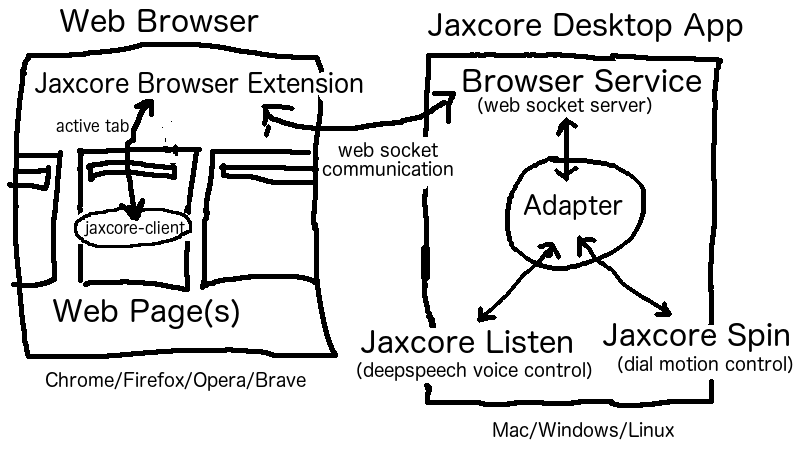
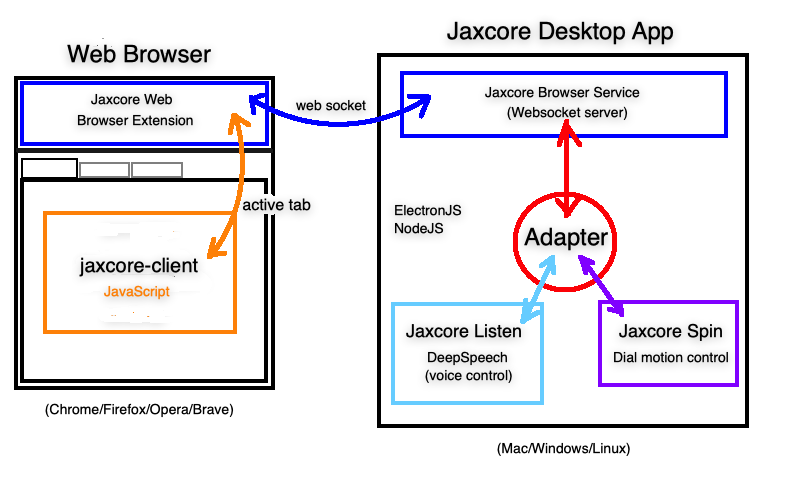
update README

Changed region(s): [[0.0, 0.0, 1.0, 0.9956]]

diff --git a/README.md b/README.md
@@ -5,46 +5,59 @@ Jaxcore Listen
 
 A client-side JavaScript speech recognition and voice command system for the home and for the Web, based upon [DeepSpeech](https://github.com/mozilla/DeepSpeech).
 
-Jaxcore Listen connects the DeepSpeech speech-to-text engine to Jaxcore, an open source JavaScript remote control system, which makes it easy for web developers to add voice and motion controls to web pages (like Star Trek or Jarvis)  using a simple JavaScript API that can be embedded in web pages (100% client-side) or run headless in NodeJS.
+Jaxcore Listen connects the DeepSpeech speech-to-text engine to Jaxcore (an open source JavaScript remote control system) which makes it easy for web developers to add voice and motion controls to web pages (like Star Trek or Jarvis)  using a simple JavaScript API that can be embedded in web pages using 100% client-side web technologies with no third-party cloud services required.
 
-This Git repository contains the [client-side web examples](https://github.com/jaxcore/jaxcore-listen/tree/master/examples) and the NodeJS [library](https://github.com/jaxcore/jaxcore-listen/tree/master/lib).  The web client connector library (what you add to web pages) is included in [jaxcore-client](https://github.com/jaxcore/jaxcore-client) which includes other capabilities you might be interested in, such as [Jaxcore Spin](https://github.com/jaxcore/jaxcore-spin) motion control, a [Text-to-Speech](https://github.com/jaxcore/jaxcore-speak) system, [BumbleBee](https://github.com/jaxcore/bumblebee-hotword) a wake-word (like Alexa), and Sound/Microphone visualizations.
+Although the examples provided are written with ReactJS, both Jaxcore and the Jaxcore Listen web client are framework agnostic, written in pure JavaScript, but must packaged using NPM/CommonJS.  Static builds may be provided at a later date.
 
-### Prerequisites
+The web connectivity in Jaxcore Listen requires that [jaxcore-client](https://github.com/jaxcore/jaxcore-client) be embedded in a web page, a browser extension and desktop app/service must also be installed to provide the speech and motion support.  Jaxcore includes other capabilities you might also be interested in, such as [Jaxcore Spin](https://github.com/jaxcore/jaxcore-spin) motion control support, a [Text-to-Speech](https://github.com/jaxcore/jaxcore-speak) system, [BumbleBee](https://github.com/jaxcore/bumblebee-hotword) a wake-word (like Alexa), and Sound/Microphone visualizations.  Jaxcore plugins are being written to control many types of devices (wireless speakers, home theater stereos, and media players like Plex/Kodi.
 
-In order to test the live web demos, you must first install both:
-
-- [Jaxcore Desktop application](https://github.com/jaxcore/jaxcore-electron)
-
-- [Jaxcore Web Browser extension](https://github.com/jaxcore/browser-plugin)
-
-**April-10-2019:** These projects are not yet released because the desktop app depends on DeepSpeech v0.5 which is not out yet.  In the meantime, the Listen NodeJS library can be used right now, and the web browser extension will be released hopefully later this week.  The headless version of the core piece of Jaxcore that is required for Listen support will be released at the same time.
-
-NOTE: The DeepSpeech English language model in the desktop app is a very large download (1.8GB), but only needs to be installed once for use across all websites with Jaxcore support.  This all runs locally on a computer, no cloud services required, no signups, no API keys, and most importantly no eavesdropping.
-
-
-### Live Demos
-
-- Functionality Demo:
-[https://jaxcore.github.io/jaxcore-listen/](https://jaxcore.github.io/jaxcore-listen/examples/demo)
-
-- Vocabulary/Substitution Testing Tool:
-[https://jaxcore.github.io/jaxcore-listen/examples/vocab-tester](https://jaxcore.github.io/jaxcore-listen/examples/vocab-tester)
-
-- Voice Chess game: [https://chess.jaxcore.com](https://chess.jaxcore.com)
-
-### Video Demos
-
-- Voice Chess gameplay: [https://www.youtube.com/watch?v=faOfKd1eAQA](https://www.youtube.com/watch?v=faOfKd1eAQA)
+See [https://jaxcore.com](https://jaxcore.com) for more details.
 
 
 ## How It Works
 
 ![diagram](https://raw.githubusercontent.com/jaxcore/jaxcore-listen/master/diagram.png)
 
-This diagram shows how the Jaxcore desktop app and browser extension are used to connect DeepSpeech and the Jaxcore Spin controllers to the web.  Jaxcore establishes a multi-node birectional communication channel from a web page to DeepSpeech and/or one or more Spin devices.  The browser extension will automatically switch to the active browser tab so only one tab can be controlled at a time.
+This diagram shows how the Jaxcore desktop app and browser extension are used to connect DeepSpeech and Spin controllers to the web.  Jaxcore establishes a multi-node birectional communication channel from a web page to DeepSpeech and/or one or more Spin devices.  The browser extension will automatically switch to the active browser tab so only one tab can be controlled at a time.
 
 
-## Web Client
+### Prerequisites
+
+In order to run the web demos with full microphone and speech recognition enabled, you must first install both the desktop app and browser extension:
+
+- [Jaxcore Web Browser extension](https://github.com/jaxcore/jaxcore-browser-extension)
+
+The browser extension establishes a communication channel between web pages and the Jaxcore Desktop app which runs DeepSpeech and the Jaxcore Spin bluetooth library, and Simulator.
+
+- [Jaxcore Desktop application](https://github.com/jaxcore/jaxcore-desktop-app) (not yet published)
+
+The DeepSpeech English language model in the desktop app is a very large download (1.8GB), but only needs to be installed once for use across all websites with Jaxcore support.  This all runs locally on a computer, no cloud services required, no signups, no API keys, and most importantly no eavesdropping.
+
+**April-11-2019:** The desktop app is not yet published because it depends on an upcoming version of DeepSpeech (v0.5).  In the meantime, the browser service can be run headless, by following the instructions at:
+
+- [Jaxcore Browser Plugin](https://github.com/jaxcore/browser-plugin)
+
+Windows/Linux:
+
+- [sox](http://sox.sourceforge.net/) (microphone recording)
+
+On computers with Windows and Linux, the `sox` command line audio program may have to be installed on the computer to provide microphone recording.  Make sure it is globally available from the command line.
+
+## Live Demos
+
+- [Basic Functionality Demo](https://jaxcore.github.io/jaxcore-listen/examples/web-demo/) - simple example of microphone speech being interpreted as words, letters, numbers, and dates
+
+- [Vocabulary/Substitution Testing Tool](https://jaxcore.github.io/jaxcore-listen/examples/web-vocab-tester/) - a testing tool used to build a vocabulary list with word substitutions (simple natural language processing)
+
+- [Voice Chess game](https://chess.jaxcore.com) - a full blown Jaxcore game with speech and spin support, designed as a replica of the HAL 9000 chess game in 2001 A Space Odyssey
+
+### Video Demos
+
+- Voice Chess gameplay: [https://www.youtube.com/watch?v=faOfKd1eAQA](https://www.youtube.com/watch?v=faOfKd1eAQA)
+
+
+
+## Web Client Usage
 
 #### Web Client Installation
 
@@ -82,30 +95,79 @@ Jaxcore.connect(function() {
 });
 ```
 
-For further reading, clone this repo and build try the web demos locally:
+
+For further reading, clone this repo and try the basic [web demo](https://jaxcore.github.io/jaxcore-listen/examples/web-demo/) locally:
 
 ```
 git clone https://github.com/jaxcore/jaxcore-listen.git
 cd jaxcore-listen/
 npm install
-cd examples/demo
+cd examples/web-demo
 npm install
 npm start
 ```
+
+
+## Listen Web API 
+
+**Momentary Recognition**
+
+Momentary recognition is useful to implement short and quick voice commands with no need for voice activity detection.  Start() will begin streaming microphone audio data into a buffer.  Stop() will stop the buffer and begin recognition processing of the audio stream.  For short phrases and commands this can be quite fast depending on the speed of the computer.
+
+- `Listen.start()`
+
+- `Listen.stop()`
+
+- `Listen.on("recognize", callback)`
+
+A potential use case is to map the Spacebar key to start/stop recognition:
+
+```
+Listen.on("recognize", function(text) {
+	console.log("you said:", text):
+})
+
+document.addEventListener('keydown', function(e) {
+	if (e.keyCode === 32) {
+		Listen.start();
+	}
+});
+
+document.addEventListener('keyup', function(e) {
+	if (e.keyCode === 32) {
+		Listen.stop();
+	}
+});
+```
+
+**Continuous Recognition**
+
+Continuous recognition will detect voice activity on the microphone and automatically start/stop the mircophone stream and continuously stream segments of the audio into DeepSpeech.  This would be analagous to how Alexa always listens and processes words that are spoken.  The drawback compared to momentary recognition is the audio clips are longer (and therefore more data must be processed) and delay is required to detect silence before processing can begin.
+
+- `Listen.startContinuous()`
+
+- `Listen.stopContinuous()`
+
+- `Listen.on("recognize", callback)`
+
+
+**TODO: Utterance Recognition**
+
+A third mode is planned to enable manual start and automatic stop based on the voice activity level.
 
 ### Vocabulary Tester
-The vocabulary tester can be used to create your own list of word substitutions as a primitive Natural Language Processor.  This is often necessary to catch situations where DeepSpeech recognizes similar sounding words (eg. "tree" instead of "three").  It may require a fair number of substitutions to achieve an acceptable level of accuracy, but this is still substantially easier than creating a new custom DeepSpeech language model.
+The vocabulary tester can be used as a primitive Natural Language Processor to create your own list of word substitutions.  This is often necessary to catch situations where DeepSpeech recognizes similar sounding words (eg. "tree" instead of "three").  It may require a fair number of substitutions to achieve an acceptable level of accuracy, but this is still substantially easier than creating a new custom DeepSpeech language model.
 
 ```
 git clone https://github.com/jaxcore/jaxcore-listen.git
 cd jaxcore-listen/
 npm install
-cd examples/vocab-tester
+cd examples/web-vocab-tester
 npm install
 npm start
 ```
 
-The tools directory contains scripts to convert a CSV file of words into a JSON key/value list.  The `datetime.csv` would be a good one to copy as it is the most simple.
+The [tools](https://github.com/jaxcore/jaxcore-listen/tree/master/tools) directory contains scripts to convert a CSV file of words into a JSON key/value list.  The `datetime.csv` would be a good one to copy as it is the most simple.
 
 ```
 cd tools
@@ -115,14 +177,26 @@ node generate-substitutions.js mycustomlist.csv
 
 That generates a new file `mycustomlist.json` with the first column as the key, and an array of the words.
 
-See the [interpreters](https://github.com/jaxcore/jaxcore-listen/tree/master/examples/web-vocab-tester/src/interpreters) directory for examples of how to create a function which performs a search and replace using the json interpreter data.
+See the [interpreters](https://github.com/jaxcore/jaxcore-listen/tree/master/examples/web-vocab-tester/src/interpreters) directory for examples of how to create a function which performs a search and replace using the json interpreter data.  It may also be helpful to view the source code of the [VocabApp](https://github.com/jaxcore/jaxcore-listen/blob/master/examples/web-vocab-tester/src/VocabApp.js)
 
-## NodeJS Module
+## NodeJS Module Usage
+
+Jaxcore Listen and DeepSpeech can be use headless, without the need for installing the Jaxcore desktop application, to build local server apps using these technologies.
+
+#### Download DeepSpeech Model
+
+This requires the manual download of the DeepSpeech [English language model data](https://github.com/mozilla/DeepSpeech/releases/download/v0.4.1/deepspeech-0.4.1-models.tar.gz).  To download and extract use:
+
+```
+wget https://github.com/mozilla/DeepSpeech/releases/download/v0.4.1/deepspeech-0.4.1-models.tar.gz
+tar xvfz deepspeech-0.4.1-models.tar.gz
+```
+
 
 #### NodeJS Module Installation
 
 ```
-npm install jaxcore-listen
+npm install jaxcore-listen --save
 ```
 
 #### NodeJS Module Usage
@@ -132,7 +206,7 @@ npm install jaxcore-listen
 import Listen from "jaxcore-listen";
 
 const listen = new Listen({
-	path: __dirname + '/../path/to/deepspeech/models'
+	path: __dirname + '/models'
 });
 
 listen.on('recognize', function(text) {
@@ -146,16 +220,10 @@ setTimeout(function() {
 }, 2000); // stop recording after 2 seconds
 ```
 
-This requires the manual download of the DeepSpeech [English language model data](https://github.com/mozilla/DeepSpeech/releases/download/v0.4.1/deepspeech-0.4.1-models.tar.gz).  To download and extract use:
 
-```
-wget https://github.com/mozilla/DeepSpeech/releases/download/v0.4.1/deepspeech-0.4.1-models.tar.gz
-tar xvfz deepspeech-0.4.1-models.tar.gz
-```
+#### Run Node Microphone Demos Locally
 
-#### Run Node Microphone Demos
-
-To see run the NodeJS examples locally you can use:
+To try the NodeJS microphone examples locally you can use:
 
 ```
 git clone https://github.com/jaxcore/jaxcore-listen.git
@@ -165,7 +233,7 @@ cd examples/node-microphone
 npm install
 ```
 
-Turn on your microphone and try the different recogntion modes:
+Make sure to turn your system microphone on and try the different recogntion modes:
 
 ```
 node momentary.js
@@ -173,37 +241,4 @@ node momentary.js
 
 ```
 node continuous.js
-```
-
-## Jaxcore Listen Web API 
-
-Momentary Recognition (manual start/stop):
-
-```
-Listen.start();
-
-Listen.stop();
-```
-
-Continuous Recognition (segmented stream):
-
-```
-Listen.startContinuous({
-	vadLevel; 'high',  // Voice Activity Level, use one of 'low','medium','high','max'
-	continuousTimeout: 750,  // begins recognition after 1000ms of silemnce
-	continuousMaxLength: 12000  // maximum length of clip to record
-});
-
-Listen.stopContinuous();
-```
-
-### Node API 
-
-The NodeJS API is exactly the same but notice the lower-case "listen" instead is used:
-
-```
-listen.start();
-listen.stop();
-listen.startContinuous();
-listen.stopContinuous();
 ```
